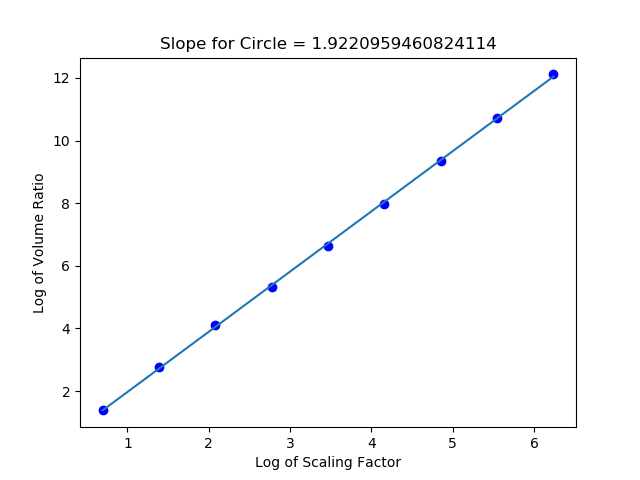
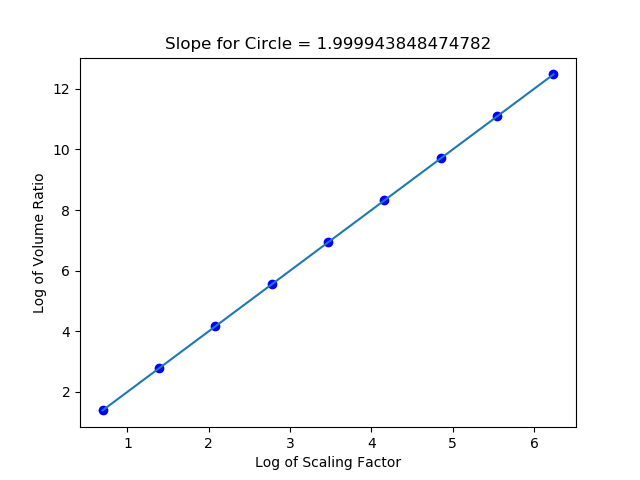
Finalizing code, writing readme's and adding graphs

diff --git a/bin/termproj.py b/bin/termproj.py
@@ -15,13 +15,13 @@ def checkblock(x,y,pixpblo):
             pos = (posx,posy)
             print("pixpblo: " + (str)(pixpblo) + " checked (" + (str)(posx) + ", " + (str)(posy) + ")")
             if im.getpixel(pos) != (0) and im.getpixel(pos) != (255): # put 0 and 255 for all images except
-                print(im.getpixel(pos))                           # for Sierpinski Triangle, put 1 and 256
+                print(im.getpixel(pos))                           # for Sierpinski Triangle, replace 0 with 1
                 return 1
     return 0
 
 ######################################
 
-im = Image.open("CANADANEW4096.png")
+im = Image.open("circle512.png")
 print (im.format, im.size, im.mode)
 im.show()
 
@@ -37,6 +37,7 @@ while (pixpblo >= 1):
     for i in range(0,blocknum):
         for n in range(0,blocknum):
             filled = filled + checkblock(x,y,pixpblo)
+            print(filled)
             x = x + pixpblo
         x = 0
         y = y + pixpblo
@@ -45,28 +46,28 @@ while (pixpblo >= 1):
     pixpblo = pixpblo/2
 print(ans)
 
-######################################  #1.300594309 = m for 2048 uk
+######################################
 double = 2
-nvalues = []
-indvalues = []
-indvaluesreg = []
+filledvalues = []
+scalevalues = []
+regression = []
 for i in range(0,len(ans)):
-    #n = math.log1p(((ans[i])/(ans[i+1]))-1)/math.log1p(0.5-1)  # we could try n = math.log1p(((ans[i])/(ans[i+1]))-1)/math.log1p(2-1)
-    nvalues.append(math.log1p(ans[i]-1))
-    indvalues.append(math.log1p(double-1))
+
+    filledvalues.append(math.log1p(ans[i]-1))
+    scalevalues.append(math.log1p(double-1))
     double = 2*double
 
-print(nvalues)
-print(indvalues)
-m,b = np.polyfit(indvalues,nvalues,1)
+print(filledvalues)
+print(scalevalues)
+m,b = np.polyfit(scalevalues,filledvalues,1)
 
 for i in range(0,len(ans)):
-    plt.plot(indvalues[i],nvalues[i],'bo')
-    indvaluesreg.append(m*indvalues[i]+b)
+    plt.plot(scalevalues[i],filledvalues[i],'bo')
+    regression.append(m*scalevalues[i]+b)
 
 str = (str)(m)
 plt.xlabel('Log of Scaling Factor')
 plt.ylabel('Log of Volume Ratio')
-plt.plot(indvalues, indvaluesreg)
-plt.title('Slope for Canada = ' + str)
+plt.plot(scalevalues, regression)
+plt.title('Slope for Circle = ' + str)
 plt.show()

diff --git a/data/README.md b/data/README.md
@@ -1,5 +1,16 @@
 # Data
 
-Place any data that you generate, or data that you rely on for validation, in this folder.
+Included in this file are:
 
-Make sure to provide descriptions to each file in this *README* file.
+  * Graphs of the 5 shapes we tested
+    The plots compare the logarithm of the scaling factor versus the logarithm of the boxes filled.
+    The slope of the regression line (a.k.a the dimension) is the title of the plot.
+
+      1. Coast of Canada
+      2. Coast of Britain
+      3. Full Square
+      4. Full Circle
+      5. Sierpinski Triangle
+
+  * A text file showing how many boxes were filled on each iteration, for each shape.
+    Also in that file, the dimensions of a 'box' and the total number of boxes in that iteration.

diff --git a/bin/README.md b/bin/README.md
@@ -10,4 +10,9 @@
 2. On line 24 replace whatever is in quotations by whichever image in the bin folder you would like to analyze.
   * Optional: Replace the title of the graph on line 71.
 
+Note: If you choose to run the Sierpinski Triangle png, then you will have to make a small edit in the
+since the image is black on a white background unlike the rest of the images, on line 17, the 0 will have to be replaced by a 1
+
+
+
 3. Run the program and wait a while. (256x256 pixels takes about 1 minute, 2048x2048 pixels takes about 1 hour)
